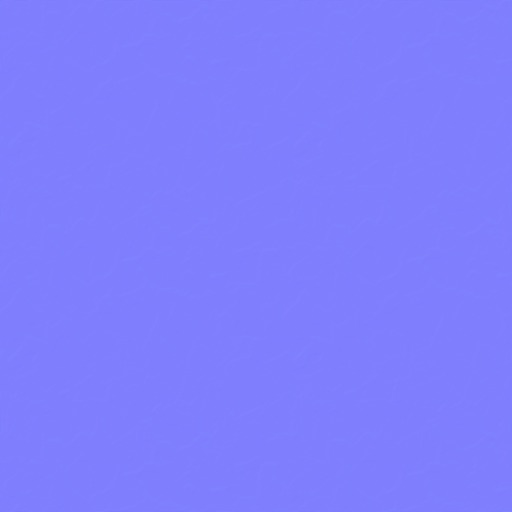
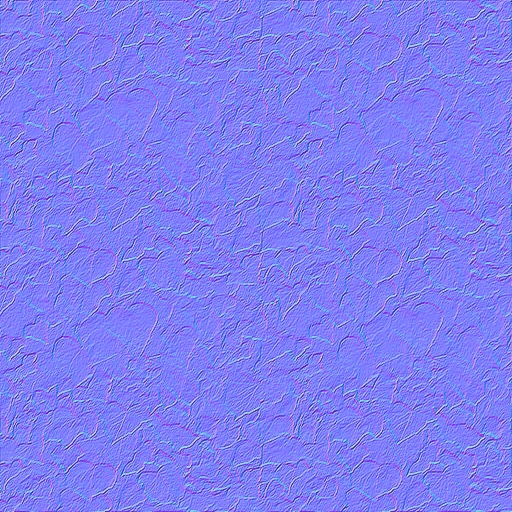
添加法线贴图

diff --git a/webgl.html b/webgl.html
@@ -138,11 +138,11 @@
         <script type="text/javascript" src="js/Library/jquery.contextmenu.r2.js"></script>
     
         <script type="text/javascript" src="js/source/InputAndOutputStreams.js"></script>
-        <script type="text/javascript" src="js/source/shader.js"></script>
+        <script type="text/javascript" src="js/source/shader.js?v=p18"></script>
         <script type="text/javascript" src="js/source/Matrix.js"></script>
         <script type="text/javascript" src="js/source/objectsCatalog.js"></script>
         <script type="text/javascript" src="js/source/texture.js"></script>
-        <script type="text/javascript" src="js/source/material.js"></script> 
+        <script type="text/javascript" src="js/source/material.js?v=p18"></script> 
         <script type="text/javascript" src="js/source/Loadroom.js"></script>
         <script type="text/javascript" src="js/source/Loadthings.js"></script>
         <script type="text/javascript" src="js/source/cancel.js"></script>
@@ -151,15 +151,15 @@
         <script type="text/javascript" src="js/source/gizmo.js"></script>
         <script type="text/javascript" src="js/source/testmode.js"></script>
         <script type="text/javascript" src="js/source/drawSceneOnTVScreen.js"></script>
-        <script type="text/javascript" src="js/source/drawroom.js"></script>
+        <script type="text/javascript" src="js/source/drawroom.js?v=p12"></script>
         <script type="text/javascript" src="js/source/shadow.js"></script>
         <script type="text/javascript" src="js/source/postprocess.js"></script>
         <script type="text/javascript" src="js/source/ao.js"></script>
         <script type="text/javascript" src="js/source/contactShadow.js"></script>
         <script type="text/javascript" src="js/source/bloom.js"></script>
-        <script type="text/javascript" src="js/source/debugPanel.js"></script>
+        <script type="text/javascript" src="js/source/debugPanel.js?v=p18"></script>
         <script type="text/javascript" src="js/source/lights.js"></script>
-        <script type="text/javascript" src="js/source/draw.js"></script>
+        <script type="text/javascript" src="js/source/draw.js?v=p18"></script>
         <script type="text/javascript" src="js/source/drawthings.js"></script>
         <script type="text/javascript" src="js/source/collisionDetection.js"></script>
         <script type="text/javascript" src="js/source/picking.js"></script>
@@ -376,16 +376,16 @@
                 return mat3(T * invmax, B * invmax, N);
             }
 
-            vec3 applyNormalMap(vec3 N, vec2 uv) {
-                vec2 duvdx = dFdx(uv);
-                vec2 duvdy = dFdy(uv);
+            vec3 applyNormalMap(vec3 N, vec2 uv, vec2 uvDerivBase) {
+                vec2 duvdx = dFdx(uvDerivBase);
+                vec2 duvdy = dFdy(uvDerivBase);
                 // UV 导数退化（玻璃面/缝线等）时不做扰动，避免整片死黑
                 if (dot(duvdx, duvdx) + dot(duvdy, duvdy) < 1.0e-10) {
                     return N;
                 }
                 vec3 mapN = texture2D(uNormalMap, uv).xyz * 2.0 - 1.0;
                 mapN.xy *= 0.75;
-                vec3 n = normalize(cotangentFrame(N, vPosition.xyz, uv) * mapN);
+                vec3 n = normalize(cotangentFrame(N, vPosition.xyz, uvDerivBase) * mapN);
                 // 与几何法线反向时回退，防止衣柜等模型上半部变黑
                 float align = dot(n, N);
                 if (align < 0.15) {
@@ -393,8 +393,11 @@
                 }
                 return normalize(mix(N, n, 0.85));
             }
-        
+
             void main(void) {
+                vec3 geoN = normalize(vTransformedNormal);
+                vec3 viewDir = normalize(-vPosition.xyz);
+
                 vec4 fragmentColor;
                 if (uUseTextures) {
                     fragmentColor = texture2D(uSampler, vTextureCoord);
@@ -406,12 +409,12 @@
                 if (!uUseLighting) {
                     lightWeighting = vec3(1.0, 1.0, 1.0);
                 } else {
-                    vec3 nrm = normalize(vTransformedNormal);
+                    vec3 nrm = geoN;
                     float roughness = 0.55;
                     float specStrength = uSpecularStrength * 0.45;
                     float shininess = uShininess * 0.5;
                     if (uUseMaterialMaps) {
-                        nrm = applyNormalMap(nrm, vTextureCoord);
+                        nrm = applyNormalMap(nrm, vTextureCoord, vTextureCoord);
                         roughness = texture2D(uRoughnessMap, vTextureCoord).r;
                         // 粗糙度越高高光越弱、越散
                         specStrength = uSpecularStrength * mix(1.15, 0.25, roughness);
@@ -421,7 +424,6 @@
                     }
 
                     lightWeighting = uAmbientColor;
-                    vec3 viewDir = normalize(-vPosition.xyz);
                     for (int i = 0; i < 8; i++) {
                         if (i < uLightCount) {
                             vec3 toLight = uPointLightingLocations[i] - vPosition.xyz;
@@ -1127,6 +1129,7 @@
         </div>
 
         <div id="debugPanelRoot">
+            <div id="debugFps">-- FPS</div>
             <button id="debugPanelToggle" type="button" onclick="toggleDebugPanel()">DEBUG ▾</button>
             <div id="debugPanel">
                 <div class="debugPanelTitle">后处理</div>

diff --git a/js/source/material.js b/js/source/material.js
@@ -6,8 +6,14 @@ var roomMaterialPacks = {
   ceiling: { normal: null, roughness: null, specular: 0.18, shininess: 10.0 }
 }
 
+// 每种墙/地/天花板贴图对应的法线
+var wallNormalTexture = []
+var floorNormalTexture = []
+var ceilingNormalTexture = []
+
 var materialFallbackNormal = null
 var materialFallbackRoughness = null
+var materialTexVer = '17'
 
 function materialTexReady (tex) {
   return !!(tex && tex.webglUploaded && tex.image && tex.image.width > 1 && tex.image.height > 1)
@@ -58,15 +64,59 @@ function resolveMaterialPack (kindOrEnabled) {
   return null
 }
 
-function bindMaterialMaps (kindOrEnabled) {
-  if (!shaderProgram || !shaderProgram.useMaterialMapsUniform) return
-  ensureMaterialFallbacks()
+function resolveRoomSurfaceOverride (surface) {
+  if (!surface) return null
+  if (surface === 'floor') {
+    var fi = typeof translateFloorTexture !== 'undefined' ? (translateFloorTexture | 0) : 0
+    return {
+      normal: floorNormalTexture[fi] || null,
+      pack: 'wood'
+    }
+  }
+  if (surface === 'wall') {
+    var wi = typeof translateWallTexture !== 'undefined' ? (translateWallTexture | 0) : 0
+    return {
+      normal: wallNormalTexture[wi] || null,
+      pack: 'plaster'
+    }
+  }
+  if (surface === 'ceiling') {
+    var ci = typeof translateCelingTexture !== 'undefined' ? (translateCelingTexture | 0) : 0
+    return {
+      normal: ceilingNormalTexture[ci] || null,
+      pack: 'ceiling'
+    }
+  }
+  if (surface === 'door') {
+    return {
+      normal: roomMaterialPacks.wood.normal || null,
+      pack: 'wood'
+    }
+  }
+  return null
+}
 
-  var pack = resolveMaterialPack(kindOrEnabled)
-  var useMaps = !!(pack && materialTexReady(pack.normal) && materialTexReady(pack.roughness))
+function bindMaterialMaps (kindOrEnabled) {
+  if (!gl || !shaderProgram || !shaderProgram.useMaterialMapsUniform) return
+  ensureMaterialFallbacks()
+  gl.useProgram(shaderProgram)
+
+  var surface = null
+  var packKey = kindOrEnabled
+  if (kindOrEnabled === 'floor' || kindOrEnabled === 'wall' || kindOrEnabled === 'ceiling' || kindOrEnabled === 'door') {
+    surface = kindOrEnabled
+    var ov = resolveRoomSurfaceOverride(surface)
+    packKey = ov ? ov.pack : kindOrEnabled
+  }
+
+  var pack = resolveMaterialPack(packKey)
+  var override = surface ? resolveRoomSurfaceOverride(surface) : null
+  var normalTex = (override && materialTexReady(override.normal)) ? override.normal
+    : (pack && materialTexReady(pack.normal) ? pack.normal : null)
+  var useMaps = !!(pack && materialTexReady(pack.roughness) && normalTex)
 
   gl.activeTexture(gl.TEXTURE2)
-  gl.bindTexture(gl.TEXTURE_2D, useMaps ? pack.normal : materialFallbackNormal)
+  gl.bindTexture(gl.TEXTURE_2D, useMaps ? normalTex : materialFallbackNormal)
   gl.uniform1i(shaderProgram.normalMapUniform, 2)
   gl.activeTexture(gl.TEXTURE3)
   gl.bindTexture(gl.TEXTURE_2D, useMaps ? pack.roughness : materialFallbackRoughness)
@@ -95,28 +145,46 @@ function loadMaterialTexture (path, assign) {
   tex.image.src = path
 }
 
+function loadIndexedMaterialMap (arr, index, path) {
+  loadMaterialTexture(path, function (tex) {
+    arr[index] = tex
+  })
+}
+
+function initRoomSurfaceMaps () {
+  var i
+  for (i = 0; i <= 9; i++) {
+    loadIndexedMaterialMap(floorNormalTexture, i, 'img/floor/floor' + i + '_normal.jpg?v=' + materialTexVer)
+    loadIndexedMaterialMap(wallNormalTexture, i, 'img/wall/wall' + i + '_normal.jpg?v=' + materialTexVer)
+  }
+  for (i = 0; i <= 11; i++) {
+    loadIndexedMaterialMap(ceilingNormalTexture, i, 'img/ceiling/ceiling' + i + '_normal.jpg?v=' + materialTexVer)
+  }
+}
+
 function initMaterialTextures () {
   ensureMaterialFallbacks()
 
-  // 房间材质（共享）
-  loadMaterialTexture('img/material/wood_normal.jpg', function (tex) {
+  loadMaterialTexture('img/material/wood_normal.jpg?v=' + materialTexVer, function (tex) {
     roomMaterialPacks.wood.normal = tex
   })
-  loadMaterialTexture('img/material/wood_roughness.jpg', function (tex) {
+  loadMaterialTexture('img/material/wood_roughness.jpg?v=' + materialTexVer, function (tex) {
     roomMaterialPacks.wood.roughness = tex
   })
-  loadMaterialTexture('img/material/plaster_normal.jpg', function (tex) {
+  loadMaterialTexture('img/material/plaster_normal.jpg?v=' + materialTexVer, function (tex) {
     roomMaterialPacks.plaster.normal = tex
   })
-  loadMaterialTexture('img/material/plaster_roughness.jpg', function (tex) {
+  loadMaterialTexture('img/material/plaster_roughness.jpg?v=' + materialTexVer, function (tex) {
     roomMaterialPacks.plaster.roughness = tex
   })
-  loadMaterialTexture('img/material/ceiling_normal.jpg', function (tex) {
+  loadMaterialTexture('img/material/ceiling_normal.jpg?v=' + materialTexVer, function (tex) {
     roomMaterialPacks.ceiling.normal = tex
   })
-  loadMaterialTexture('img/material/ceiling_roughness.jpg', function (tex) {
+  loadMaterialTexture('img/material/ceiling_roughness.jpg?v=' + materialTexVer, function (tex) {
     roomMaterialPacks.ceiling.roughness = tex
   })
+
+  initRoomSurfaceMaps()
 
   if (typeof OBJECTS_CATALOG === 'undefined') return
   for (var i = 0; i < OBJECTS_CATALOG.length; i++) {

diff --git a/js/source/debugPanel.js b/js/source/debugPanel.js
@@ -1,5 +1,29 @@
 // DEBUG 面板：后处理开关（仅测试模式显示）
 var debugPanelExpanded = 1
+var debugFpsLastTime = 0
+var debugFpsFrames = 0
+var debugFpsValue = 0
+var debugFpsEl = null
+
+function updateDebugFps () {
+  if (typeof testmode === 'undefined' || !testmode) return
+  var now = (typeof performance !== 'undefined' && performance.now)
+    ? performance.now()
+    : new Date().getTime()
+  if (!debugFpsLastTime) {
+    debugFpsLastTime = now
+    debugFpsFrames = 0
+    return
+  }
+  debugFpsFrames++
+  var elapsed = now - debugFpsLastTime
+  if (elapsed < 500) return
+  debugFpsValue = Math.round((debugFpsFrames * 1000) / elapsed)
+  debugFpsLastTime = now
+  debugFpsFrames = 0
+  if (!debugFpsEl) debugFpsEl = document.getElementById('debugFps')
+  if (debugFpsEl) debugFpsEl.textContent = debugFpsValue + ' FPS'
+}
 
 function setPostAAEnabled (enabled) {
   var on = enabled ? 1 : 0
@@ -31,6 +55,10 @@ function updateDebugPanelVisibility () {
   var show = typeof testmode !== 'undefined' && !!testmode
   root.style.display = show ? 'block' : 'none'
   if (show) {
+    debugFpsLastTime = 0
+    debugFpsFrames = 0
+    debugFpsEl = document.getElementById('debugFps')
+    if (debugFpsEl) debugFpsEl.textContent = '-- FPS'
     syncDebugPanelFromFlags()
     var panel = document.getElementById('debugPanel')
     var btn = document.getElementById('debugPanelToggle')

diff --git a/js/source/drawroom.js b/js/source/drawroom.js
@@ -28,7 +28,7 @@ function builddoor (j) {
   )
 }
 function rebuilddoor () {
-  if (typeof bindMaterialMaps === 'function') bindMaterialMaps('wood')
+  if (typeof bindMaterialMaps === 'function') bindMaterialMaps('door')
   for (var j = 0; j <= 50; j++) {
     if (DoorPresentAngle[j] > 1) {
       mvPushMatrix()
@@ -62,7 +62,7 @@ function buildfloor (x, z) {
 }
 
 function rebuildfloor () {
-  if (typeof bindMaterialMaps === 'function') bindMaterialMaps('wood')
+  if (typeof bindMaterialMaps === 'function') bindMaterialMaps('floor')
   for (var i = 0; i <= 19; i++)
     for (var j = 0; j <= 19; j++) {
       if (mapdiv[i][j]) {
@@ -186,7 +186,7 @@ function buildwall (x, z) {
 }
 
 function rebuildwall () {
-  if (typeof bindMaterialMaps === 'function') bindMaterialMaps('plaster')
+  if (typeof bindMaterialMaps === 'function') bindMaterialMaps('wall')
   for (var i = 0; i <= 19; i++)
     for (var j = 0; j <= 19; j++) {
       if (!mapdiv[i][j] && (shouldbuildwall(i, j))) {

diff --git a/js/source/draw.js b/js/source/draw.js
@@ -61,6 +61,13 @@ function drawScene () {
     gl.uniform1i(shaderProgram.useTexturesUniform, 1)
     gl.uniform3f(shaderProgram.ambientColorUniform, 0.17, 0.17, 0.17)
     if (typeof bindMaterialMaps === 'function') bindMaterialMaps(null)
+  } else {
+    // 后处理未启用时确保画回默认帧缓冲，避免仍绑着已销毁的 FBO
+    gl.bindFramebuffer(gl.FRAMEBUFFER, null)
+    gl.viewport(0, 0, gl.viewportWidth, gl.viewportHeight)
+    gl.clearColor(0, 0, 0, 1)
+    gl.clear(gl.COLOR_BUFFER_BIT | gl.DEPTH_BUFFER_BIT | gl.STENCIL_BUFFER_BIT)
+    gl.useProgram(shaderProgram)
   }
 
   bindSceneLightsEyeSpace(mvMatrix)
@@ -209,6 +216,7 @@ function tick () {
       handleKeys()
       drawScene()
       animate()
+      if (typeof updateDebugFps === 'function') updateDebugFps()
     }
   }
 }

diff --git a/css/style.css b/css/style.css
@@ -1017,6 +1017,17 @@ ul#loadbar li {
 	-webkit-user-select: none;
 }
 
+#debugFps {
+	margin: 0 0 6px auto;
+	padding: 4px 10px;
+	min-width: 72px;
+	text-align: right;
+	border: 1px solid rgba(255, 255, 255, 0.25);
+	background: rgba(20, 20, 20, 0.82);
+	color: #7CFFB2;
+	font-variant-numeric: tabular-nums;
+}
+
 #debugPanelToggle {
 	display: block;
 	margin: 0 0 6px auto;
